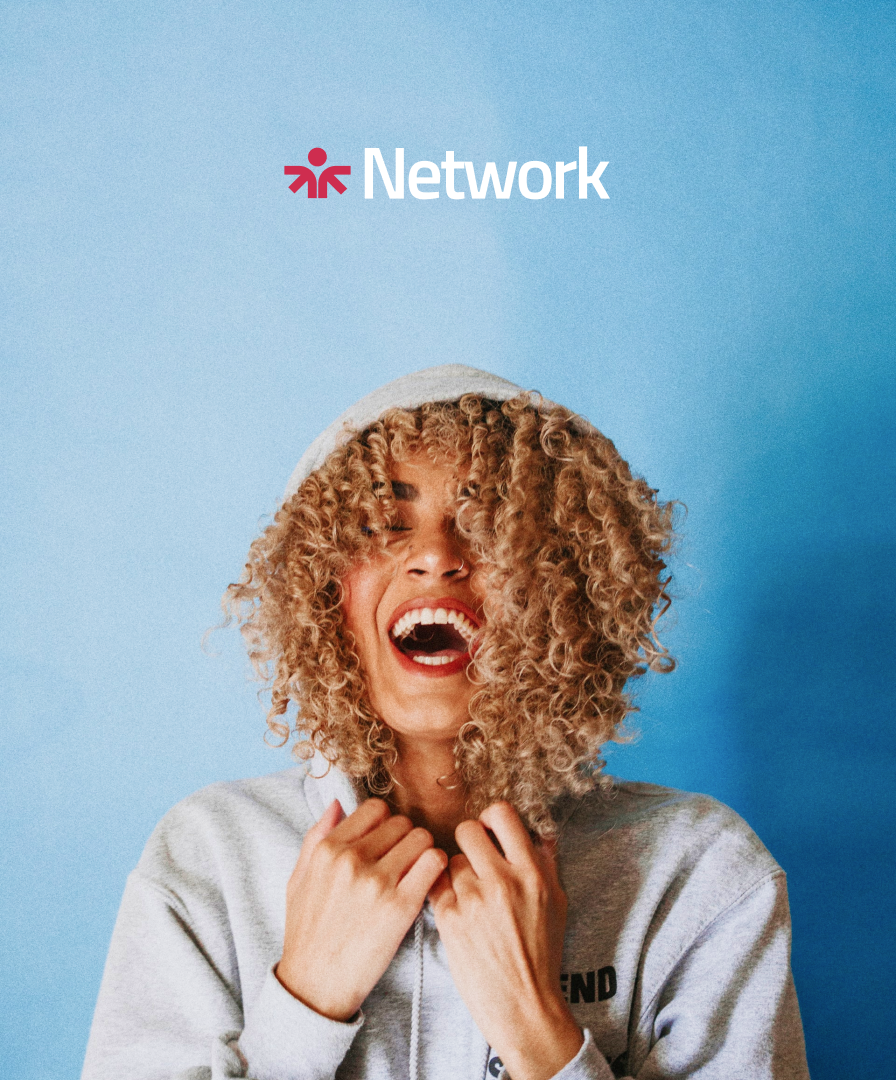
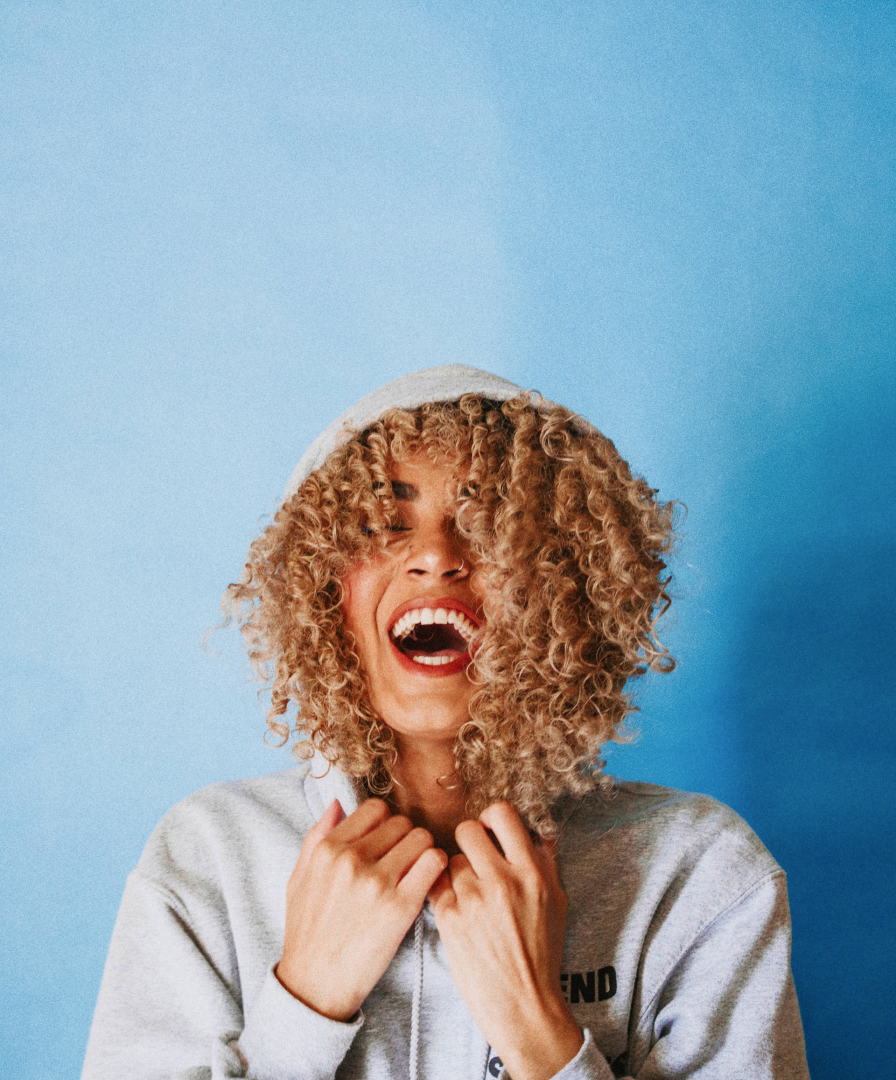
register-res

Changed region(s): [[0.3125, 0.1222, 0.6875, 0.1833]]

diff --git a/src/pages/SignIn/SignUp.css b/src/pages/SignIn/SignUp.css
@@ -1,9 +1,26 @@
 .sign-up-page {
   display: flex;
 }
+.left-side {
+  position: relative;
+  min-height: 100vh;
+  height: auto;
+  width: 45%;
+}
 .sign-up-img {
-  height: 100vh;
+  position: absolute;
+  width: 100%;
+  height: 100%;
   object-fit: cover;
+}
+
+.sign-up-logo {
+  position: absolute;
+  top: 2.5rem;
+  left: 50%;
+  transform: translateX(-50%);
+  width: 180px;
+  height: auto;
 }
 
 .right-side {
@@ -60,6 +77,7 @@
   background-color: #eeeeee;
 }
 .sign-up-btn {
+  margin-top: 0.3rem;
   width: 100%;
   padding: 0.7rem 0;
   background-color: #ce2d4f;
@@ -119,19 +137,39 @@
   object-fit: auto;
 }
 
+@media screen and (max-width: 1000px) {
+  .sign-up-logo {
+    width: 160px;
+  }
+}
+
 @media screen and (max-width: 769px) {
   .sign-up-page {
-    display: block;
-    margin-top: 6rem;
+    width: 90vw;
+    max-width: 980px;
+    margin: 0 auto;
+    flex-direction: column;
+    align-items: flex-start;
+    gap: 3rem;
   }
+
+  .left-side {
+    min-height: auto;
+    width: auto;
+  }
+
   .sign-up-img {
     display: none;
   }
 
+  .sign-up-logo {
+    position: relative;
+    width: 130px;
+  }
+
   .right-side {
-    width: 90vw;
-    max-width: 980px;
-    margin: 0 auto;
+    width: auto;
+    max-width: auto;
   }
 
   .sign-up-title {

diff --git a/src/pages/Register/Register.css b/src/pages/Register/Register.css
@@ -18,13 +18,8 @@
 }
 
 .register-logo {
-  width: 35%;
-  min-width: 140px;
+  width: 190px;
   height: auto;
-}
-
-.register-logo-mobile {
-  display: none;
 }
 
 .register-title-ctn {
@@ -233,6 +228,7 @@
 }
 
 .register-form-button {
+  margin-top: 0.3rem;
   padding: 0.7rem 0;
   background-color: #ce2d4f;
   border: 2px solid #ce2d4f;
@@ -265,6 +261,10 @@
 }
 
 @media screen and (max-width: 1000px) {
+  .register-logo {
+    width: 160px;
+  }
+
   .register-form {
     width: 40vw;
   }
@@ -277,7 +277,6 @@
 @media screen and (max-width: 769px) {
   .register {
     width: 90vw;
-    height: auto;
     min-height: auto;
     margin: 2.5rem auto 0 auto;
     flex-direction: column;
@@ -291,12 +290,7 @@
   }
 
   .register-logo {
-    display: none;
-  }
-
-  .register-logo-mobile {
-    display: block;
-    margin-left: -1rem;
+    width: 130px;
   }
 
   .register-title {
@@ -346,7 +340,7 @@
   }
 
   .register-form-upload-title {
-    margin-bottom: 2.5rem;
+    margin-bottom: 0.5rem;
   }
 
   .register-form-upload-label {
@@ -376,7 +370,7 @@
   }
 
   .register-form-fit-button {
-    margin: 0 auto;
+    margin: 0.3rem auto 0 auto;
   }
 }
 

diff --git a/src/components/Navigation/TopNav/TopNav.jsx b/src/components/Navigation/TopNav/TopNav.jsx
@@ -9,22 +9,25 @@ import { useOnClickOutside } from '../../../hooks/useOnClickOutside';
 
 function TopNav() {
   const [showHamburgerMenu, setShowHamburgerMenu] = useState(false);
+  const [isClicked, setIsClicked] = useState(false);
 
   const hamburgerButtonRef = useRef();
   const hideHamburgerMenu = (e) => {
     if (!e.target.classList.contains('nav-link')) {
       setShowHamburgerMenu(false);
+    } else if (e.target.classList.contains('nav-link')) {
+      setIsClicked(true);
     }
   };
   useOnClickOutside(hamburgerButtonRef, hideHamburgerMenu);
 
   useEffect(() => {
-    if (showHamburgerMenu) {
+    if (showHamburgerMenu && !isClicked) {
       document.querySelector('body').classList.add('stop-scroll');
     } else {
       document.querySelector('body').classList.remove('stop-scroll');
     }
-  }, [showHamburgerMenu]);
+  }, [showHamburgerMenu, isClicked]);
 
   return (
     <div className="navbar">

diff --git a/src/pages/SignIn/SignIn.jsx b/src/pages/SignIn/SignIn.jsx
@@ -2,6 +2,7 @@ import React from 'react';
 import sign from '../../images/sign.png';
 import google from '../../images/google.png';
 import facebook from '../../images/facebook.png';
+import brandLogo from '../../images/network.png';
 import './SignUp.css';
 
 import { Link } from 'react-router-dom';
@@ -9,12 +10,15 @@ import { Link } from 'react-router-dom';
 function SignUp() {
   return (
     <div className="sign-up-page">
-      <img
-        src={sign}
-        alt="cover"
-        className="
+      <div className="left-side">
+        <img
+          src={sign}
+          alt="cover"
+          className="
         sign-up-img"
-      />
+        />
+        <img src={brandLogo} alt="brand logo" className="sign-up-logo" />
+      </div>
       <div className="right-side">
         <h2 className="sign-up-title">Sign In</h2>
         <div>

diff --git a/src/pages/SignUp/SignUp.jsx b/src/pages/SignUp/SignUp.jsx
@@ -2,18 +2,26 @@ import { useState, useRef } from 'react';
 import sign from '../../images/sign.png';
 import google from '../../images/google.png';
 import facebook from '../../images/facebook.png';
+import brandLogo from '../../images/network.png';
 
 import { Link } from 'react-router-dom';
 
 function SignUp() {
   return (
     <div className="sign-up-page">
-      <img
-        src={sign}
-        alt="cover"
-        className="
+      <div className="left-side">
+        <img
+          src={sign}
+          alt="cover"
+          className="
         sign-up-img"
-      />
+        />
+        <img
+          src={brandLogo}
+          alt="new-market-dhaka logo"
+          className="sign-up-logo"
+        />
+      </div>
       <div className="right-side">
         <h2 className="sign-up-title">Sign Up</h2>
         <div>

diff --git a/src/pages/Register/elements/RegisterLeft.jsx b/src/pages/Register/elements/RegisterLeft.jsx
@@ -1,16 +1,10 @@
 import React from 'react';
-import brandLogo from '../../../images/svg/Network-Color-white.svg';
-import brandLogoMobile from '../../../images/network.png';
+import brandLogo from '../../../images/network.png';
 
 const RegisterLeft = () => {
   return (
     <div className="register-left">
       <img src={brandLogo} alt="brand logo" className="register-logo" />
-      <img
-        src={brandLogoMobile}
-        alt="brand logo"
-        className="register-logo register-logo-mobile"
-      />
       <div className="register-title-ctn">
         <h4 className="register-title">Register Your Services</h4>
         <p className="register-desc">& boost your customer engagement</p>
